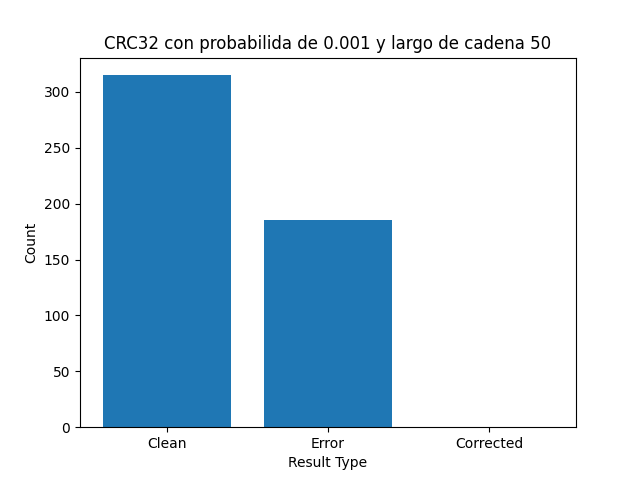
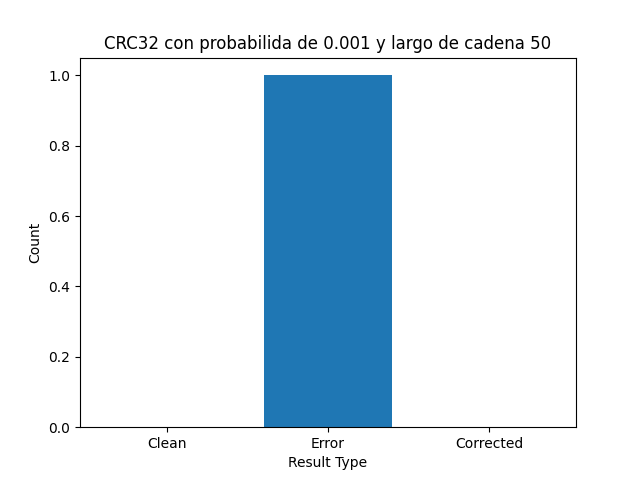
SUPER HIPER MEGA DONE

diff --git a/receptor.java b/receptor.java
@@ -152,43 +152,41 @@ class capaAplicacion {
         
         StringBuilder logMessage = new StringBuilder();
 
-
-        if (metodo.equals("hamming")) {
+    if (metodo.equals("hamming")) {
             logMessage.append("\n---------------\nMetodo de correccion de errores: Hamming");
 
             if (error.equals("true")) {
                 logMessage.append("\n-Se detecto un error en la trama recibida, se corrigio y se convirtio a texto.");
                 logMessage.append("\nTexto recibido (corregido): ").append(texto);
-                guardarEnArchivo("corrected");
-
+                guardarEnArchivo(metodo, "corrected");
             } else if (error.equals("false")) {
                 logMessage.append("\n-No se detectaron errores en la trama recibida, se convirtio a texto.");
                 logMessage.append("\nTexto recibido: ").append(texto);
-                guardarEnArchivo("clean");
+                guardarEnArchivo(metodo, "clean");
             } else {
-                logMessage.append("\n-Se detecto un error en la trama recibida. No se pudo corregir.");
-                guardarEnArchivo("error");
+                logMessage.append("\n-Se detecto más de un error en la trama recibida. No se pudo corregir.");
+                guardarEnArchivo(metodo, "error");
             }
         } else if (metodo.equals("crc32")) {
             logMessage.append("\n---------------\nMetodo de deteccion de errores: CRC32");
 
             if (error.equals("true")) {
                 logMessage.append("\n-Se detecto un error en la trama recibida. Se descarto la trama");
-                guardarEnArchivo("error");
+                guardarEnArchivo(metodo, "error");
             } else if (error.equals("false")) {
                 logMessage.append("\n-No se detectaron errores en la trama recibida, se convirtio a texto.");
                 logMessage.append("\nTexto recibido: ").append(texto);
-                guardarEnArchivo("clean");
+                guardarEnArchivo(metodo, "clean");
             }
         }
 
         System.out.println(logMessage);
     }
 
-    private static void guardarEnArchivo(String estado) {
+    private static void guardarEnArchivo(String metodo, String estado) {
         try {
-            BufferedWriter writer = new BufferedWriter(new FileWriter("resultados.txt", true));
-            writer.append(estado);
+            BufferedWriter writer = new BufferedWriter(new FileWriter(metodo + ".txt", true));
+            writer.append(estado).append("\n");
             writer.close();
         } catch (IOException e) {
             e.printStackTrace();

diff --git a/pruebas.py b/pruebas.py
@@ -1,7 +1,6 @@
 import subprocess
 import multiprocessing
 import random
-import time
 from faker import Faker
 import os
 import matplotlib.pyplot as plt
@@ -27,8 +26,6 @@ if __name__ == "__main__":
     mensajes = ["Hola como estas", "Habia una vez un lind gatito negro llamdo chimuelo"]
     probabilities = [0.001, 0.01, 0.1]
     methods = [1,2]
-
-    resultados = {'hamming':{"0.001":{"clean":0, "error":0, "corrected":0}, "0.01":{"clean":0, "error":0, "corrected":0}, "0.1":{"clean":0, "error":0, "corrected":0}}, 'crc32':{"0.001":{"clean":0, "error":0}, "0.01":{"clean":0, "error":0}, "0.1":{"clean":0, "error":0}}}
 
     iteraciones = int(input("Ingrese la cantidad de iteraciones: "))
 

diff --git a/emisor.py b/emisor.py
@@ -117,7 +117,7 @@ def main():
 
     # if argv is not None:
 
-    if len(sys.argv) == 4:
+    if len(sys.argv) >0:
         mensaje = sys.argv[1]
         metodo = int(sys.argv[2])
         probabilidad = float(sys.argv[3])
